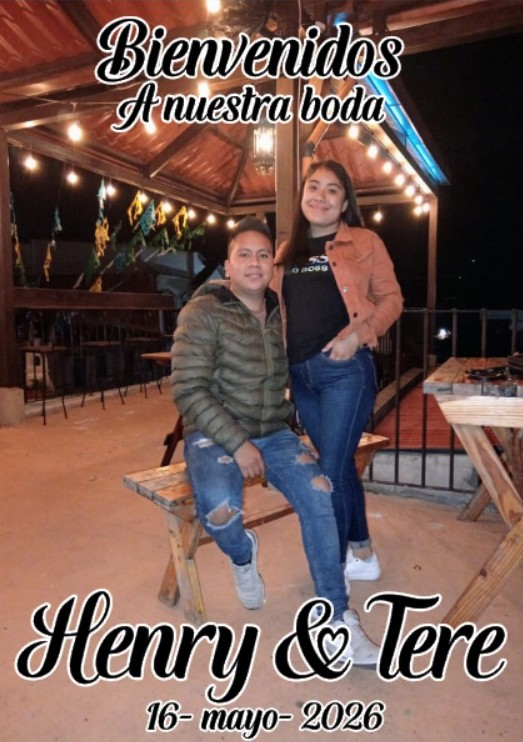
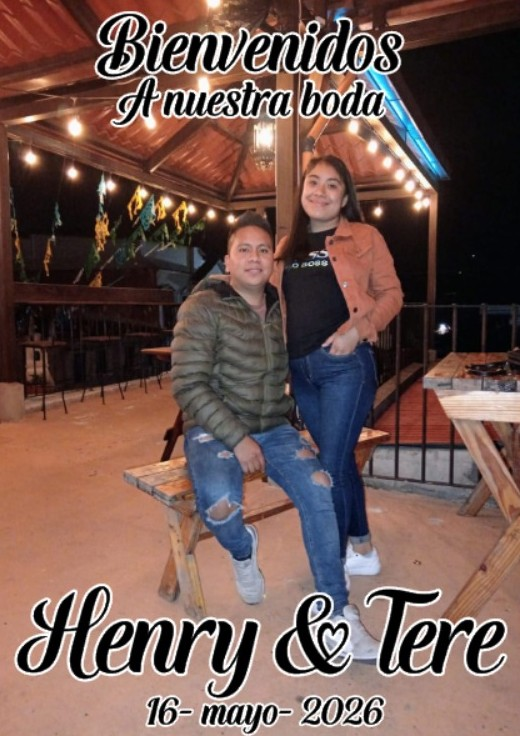
style: :art: Tarjeta de presentación
Se redujo el espacio de la galeria y se agrego la tarjeta de presentacion

diff --git a/index.html b/index.html
@@ -15,9 +15,43 @@
       })(window, document, "script", "dataLayer", "GTM-K4J3BKBK");
     </script>
     <!-- End Google Tag Manager -->
+
     <meta charset="UTF-8" />
     <meta name="viewport" content="width=device-width, initial-scale=1" />
     <title>Henry & Tere - Nos Casamos</title>
+
+    <!-- SEO y Social Sharing (Open Graph) -->
+    <meta property="og:title" content="¡Nos Casamos! Henry & Tere" />
+    <meta
+      property="og:description"
+      content="Queremos compartir este momento tan especial contigo. Haz clic para ver los detalles de nuestra boda."
+    />
+    <meta property="og:type" content="website" />
+    <meta
+      property="og:url"
+      content="https://ernestoalmengor.github.io/invitacion_h-t/"
+    />
+    <meta
+      property="og:image"
+      content="https://ernestoalmengor.github.io/invitacion_h-t/public/tarjeta.png"
+    />
+    <meta property="og:image:width" content="1200" />
+    <meta property="og:image:height" content="630" />
+
+    <!-- Twitter Card -->
+    <meta name="twitter:card" content="summary_large_image" />
+    <meta name="twitter:title" content="Henry & Tere - Nuestra Boda" />
+    <meta
+      name="twitter:description"
+      content="Acompáñanos a celebrar nuestra unión."
+    />
+    <meta
+      name="twitter:image"
+      content="https://ernestoalmengor.github.io/invitacion_h-t/public/tarjeta.png"
+    />
+
+    <!-- Color de tema para navegadores móviles -->
+    <meta name="theme-color" content="#fdf7f2" />
 
     <link
       href="https://fonts.googleapis.com/css2?family=Playfair+Display:wght@400;700&family=Montserrat:wght@300;400;600;700&family=Great+Vibes&family=Source+Serif+4:ital,opsz,wght@0,8..60,400;1,8..60,400&display=swap"
@@ -46,6 +80,7 @@
       ></iframe
     ></noscript>
     <!-- End Google Tag Manager (noscript) -->
+
     <main class="invitacion-container">
       <section class="portada">
         <div class="portada-bg"></div>

diff --git a/style.css b/style.css
@@ -377,7 +377,7 @@ h3 {
   flex-direction: column;
   align-items: center;
   justify-content: center;
-  gap: 20px;
+  gap: 0px;
   max-width: 800px;
   margin: 0 auto;
 }
